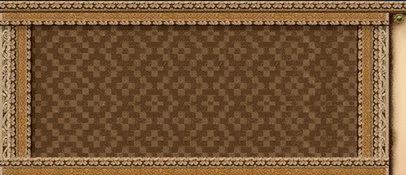
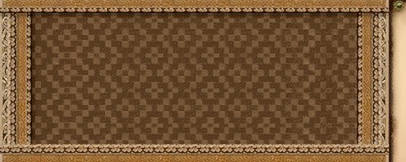
Selection shown in the bottom pane - fixes #8.

diff --git a/src/client/components/aoe2/ui/ui-module.ts b/src/client/components/aoe2/ui/ui-module.ts
@@ -4,6 +4,7 @@ import createAgeIndicatorDirective = require('./age-indicator-directive');
 import createBuildOrderItemDirective = require('./build-order-item-directive');
 import createBuildPaneDirective = require('./build-pane-directive');
 import createResourceIndicatorDirective = require('./resource-indicator-directive');
+import createSelectionDirective = require('./selection-directive');
 import createTaskCountDirective = require('./task-count-directive');
 
 
@@ -13,6 +14,7 @@ uiModule.directive('ageIndicator', createAgeIndicatorDirective);
 uiModule.directive('buildOrderItem', createBuildOrderItemDirective);
 uiModule.directive('buildPane', createBuildPaneDirective);
 uiModule.directive('resourceIndicator', createResourceIndicatorDirective);
+uiModule.directive('selection', createSelectionDirective);
 uiModule.directive('taskCount', createTaskCountDirective);
 
 export = uiModule;

diff --git a/src/client/app/main/main.scss b/src/client/app/main/main.scss
@@ -70,19 +70,22 @@ timeline {
   bottom: 0;
   left: 0;
   right: 0;
-  padding-top: 15px;
+  padding-top: 13px;
   height: $bottom-pane-height;
   background: url('/assets/images/background/bottom_center_tile.png') repeat-x; 
 }
 
-.left-bottom {
-  position: absolute; 
-  left: 0; 
-  top: 0; 
-  bottom: 0; 
+.bottom-left {
+  float: left;
   width: 406px; 
   background: url('/assets/images/background/bottom_left.png');
-  
+  box-sizing: border-box;
+  padding: 13px 50px 16px 32px;
+}
+
+.bottom-center {
+  float: left;
+  padding: 13px;
 }
 
 .task-distribution {

diff --git a/src/client/app/main/main.html b/src/client/app/main/main.html
@@ -36,9 +36,13 @@
   </div>
 </div>
 <div class="bottom-pane">
-  <div class="left-bottom"></div>
-  <build-pane 
-      current-state="mainCtrl.currentState"
-      selection="mainCtrl.selection">
-  </build-pane>
+  <div class="bottom-left">
+    <build-pane
+        current-state="mainCtrl.currentState"
+        selection="mainCtrl.selection">
+    </build-pane>
+  </div>
+  <div class="bottom-center">
+    <selection selection="mainCtrl.selection"></selection>
+  </div>
 </div>

diff --git a/src/client/components/aoe2/ui/selection-directive.ts b/src/client/components/aoe2/ui/selection-directive.ts
@@ -1,0 +1,13 @@
+/// <reference path="../../../../../typings/angularjs/angular.d.ts" />
+
+function createSelectionDirective(): ng.IDirective {
+  return {
+    templateUrl: '/components/aoe2/ui/selection.html',
+    restrict: 'E',
+    scope: {
+      selection: '='
+    }
+  };
+}
+
+export = createSelectionDirective;

diff --git a/src/client/components/aoe2/ui/selection.html b/src/client/components/aoe2/ui/selection.html
@@ -1,0 +1,7 @@
+<div>
+  <task-count 
+      ng-repeat="(taskId, taskCount) in selection.taskCounts"
+      task-count="taskCount"
+      selection="selection">
+  </task-count>
+</div>

diff --git a/src/client/components/aoe2/ui/build-pane.scss b/src/client/components/aoe2/ui/build-pane.scss
@@ -6,7 +6,6 @@ build-pane {
     position: relative;  
     width: 345px;
     height: 130px;
-    margin: 12px 34px;  
     overflow-y: auto;
   }
 
